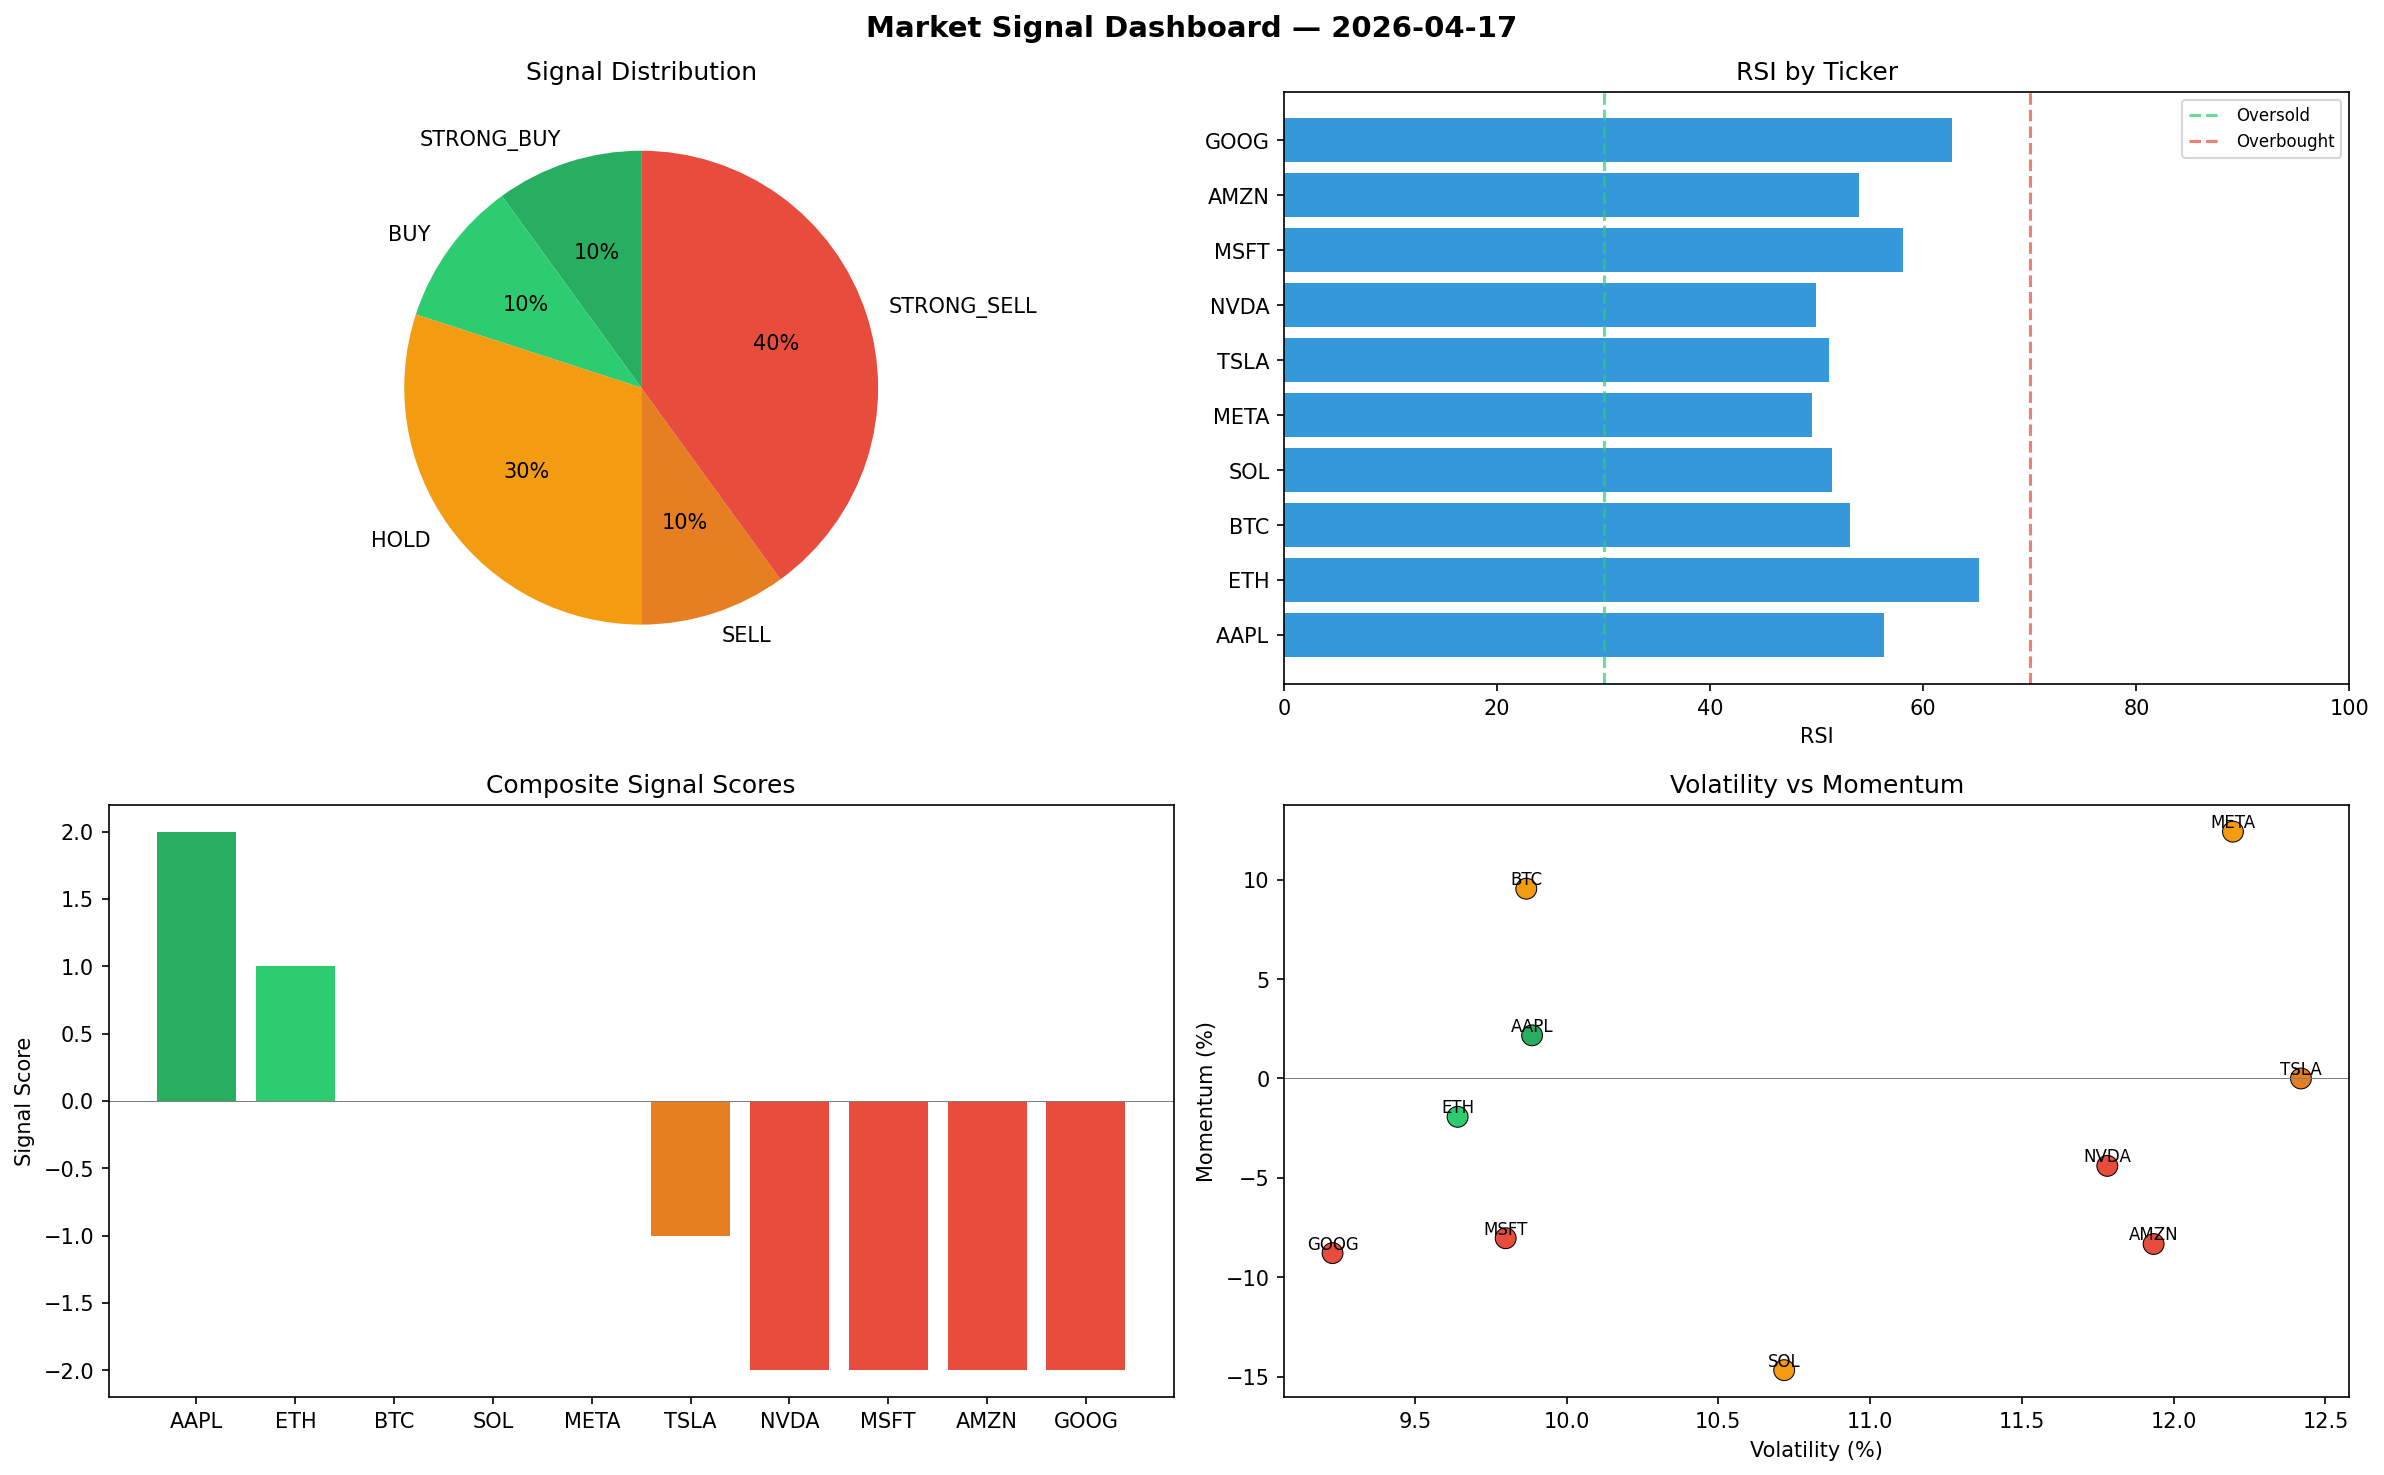
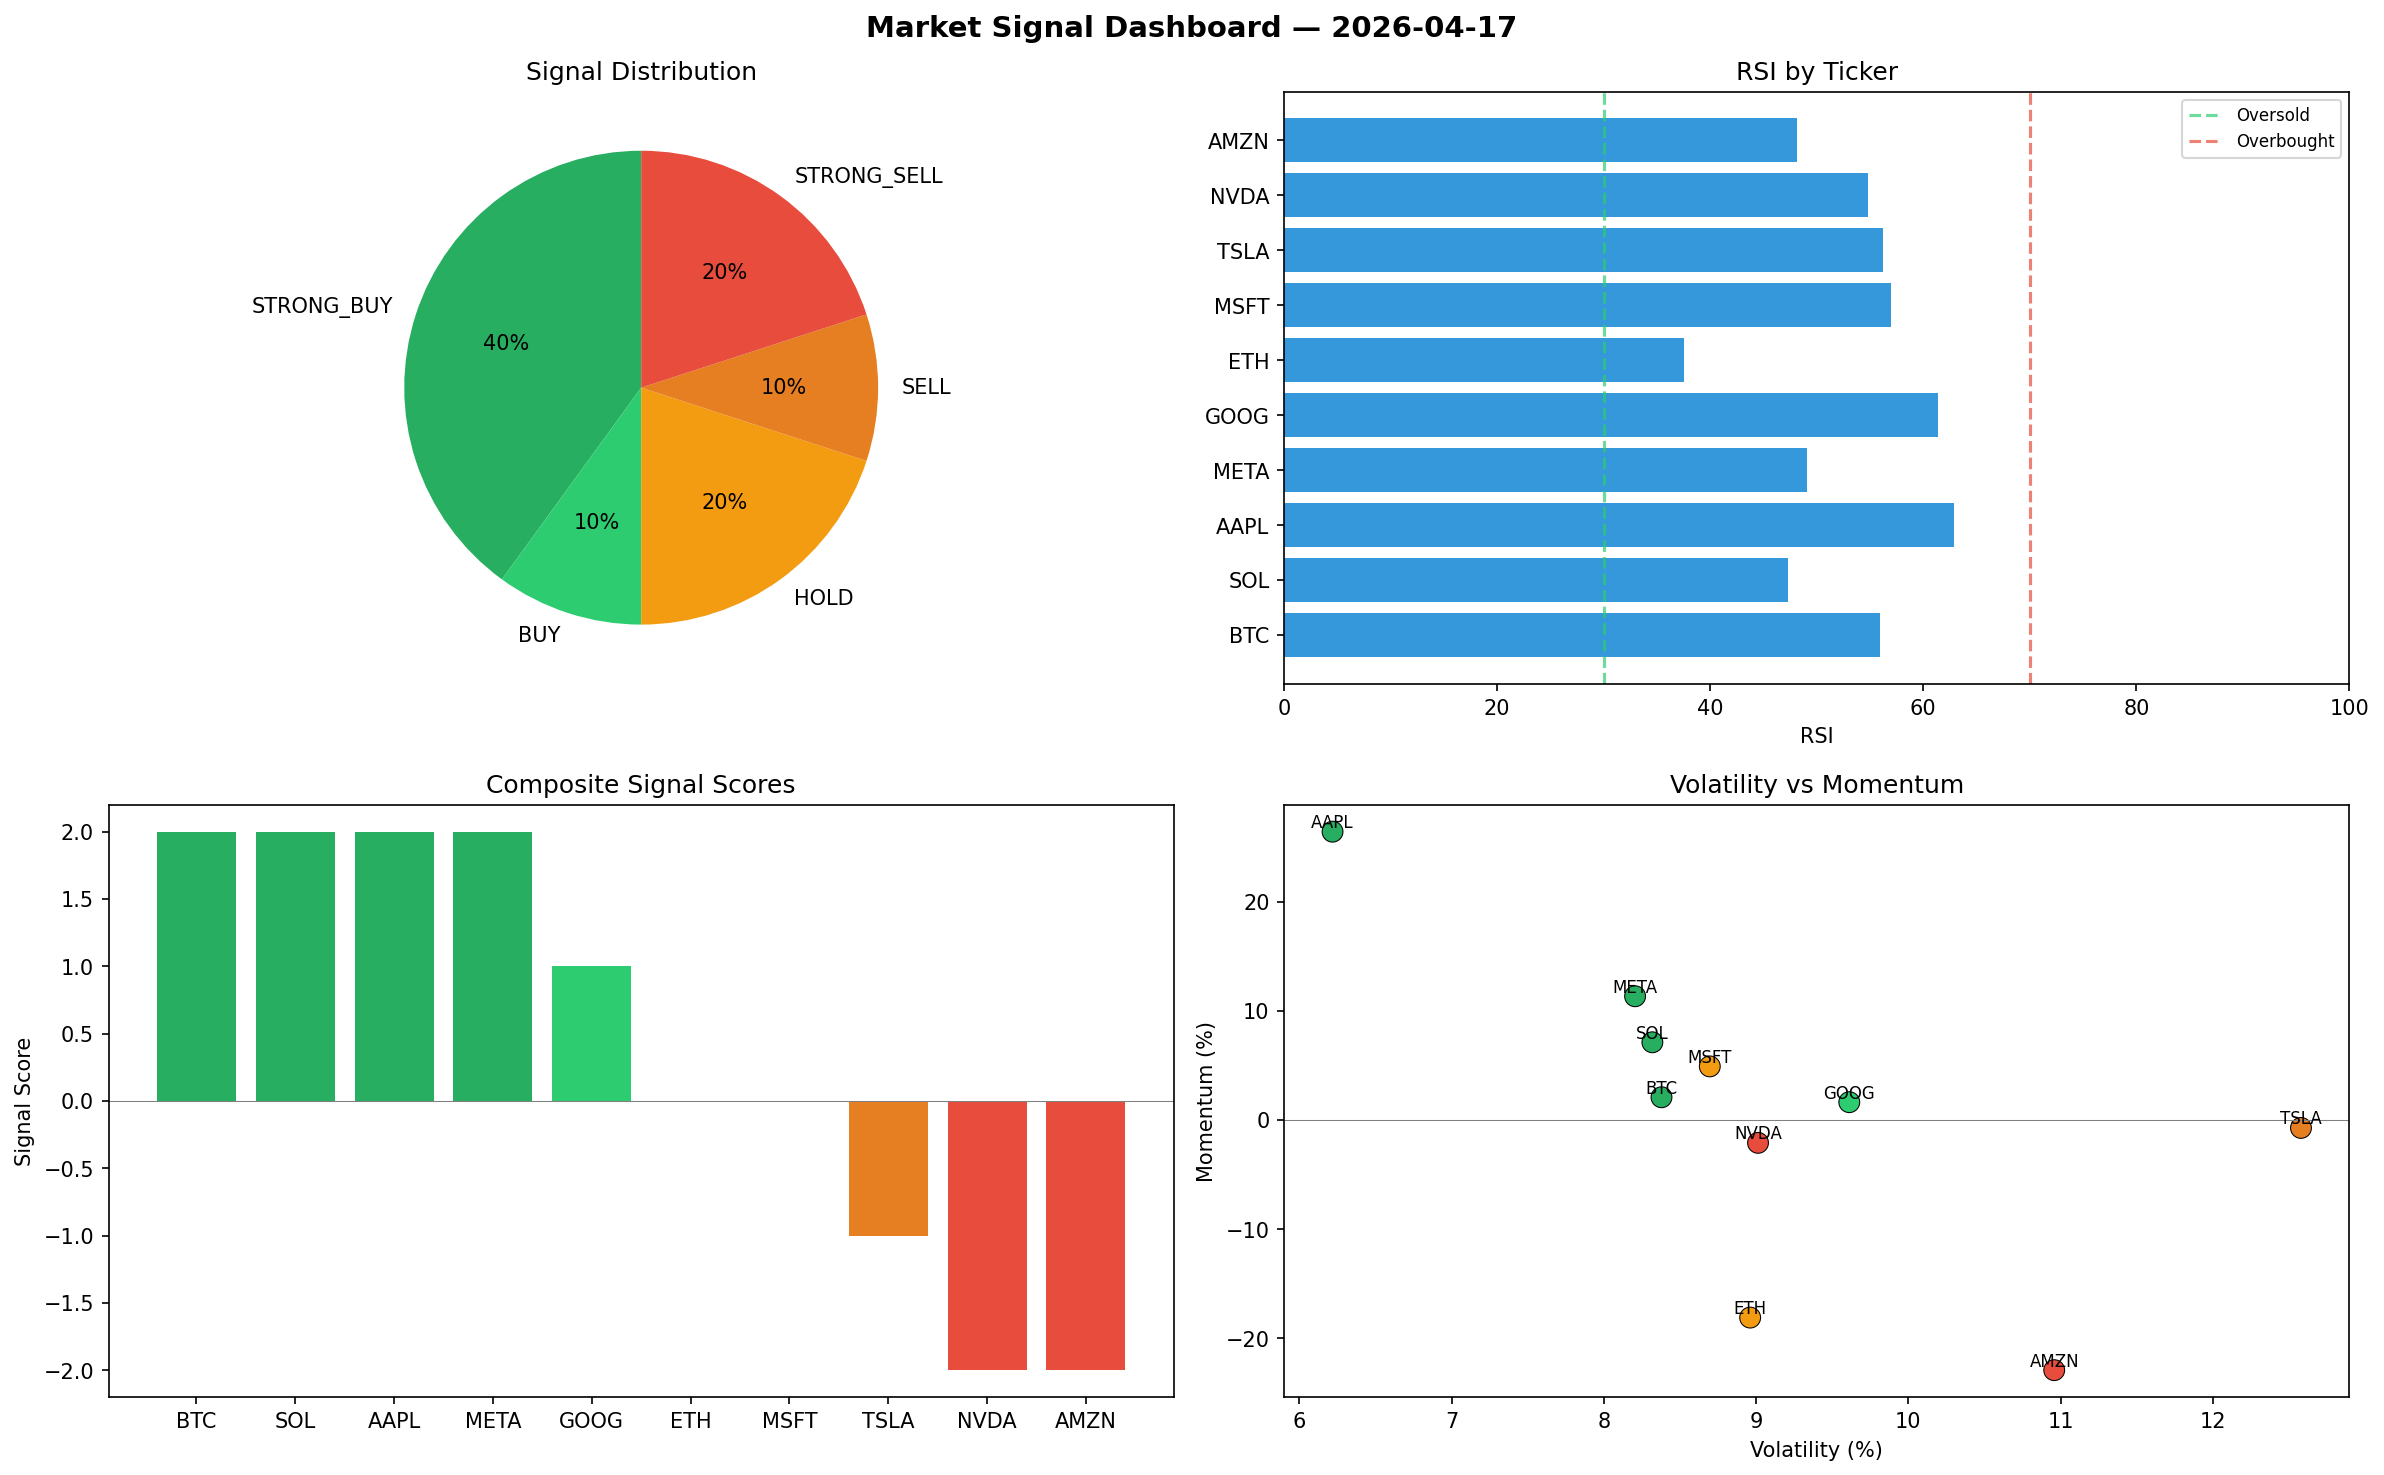
automated-bots: market signals 2026-04-17T21:07

diff --git a/logs/2026-04-17.md b/logs/2026-04-17.md
@@ -1,6 +1,6 @@
 # Market Signal Report — 2026-04-17
 
-**Run ID:** `4b8f39da7f` | **Buy:** 2 | **Sell:** 5 | **Hold:** 3
+**Run ID:** `35aff0b04b` | **Buy:** 5 | **Sell:** 3 | **Hold:** 2
 
 ![Dashboard](2026-04-17_dashboard.png)
 
@@ -8,28 +8,28 @@
 
 | Ticker | Price | Signal | Score | RSI | Momentum | Confidence |
 |--------|-------|--------|-------|-----|----------|------------|
-| AAPL | $826.27 | **STRONG_BUY** | 2 | 56.29 | 0.0217 | 0.5 |
-| ETH | $3763.6 | **BUY** | 1 | 65.2 | -0.0193 | 0.25 |
-| BTC | $1525.76 | **HOLD** | 0 | 53.16 | 0.0955 | 0.0 |
-| SOL | $895.11 | **HOLD** | 0 | 51.42 | -0.1468 | 0.0 |
-| META | $4576.48 | **HOLD** | 0 | 49.52 | 0.1242 | 0.0 |
-| TSLA | $3783.25 | **SELL** | -1 | 51.19 | -0.0 | 0.25 |
-| NVDA | $2291.2 | **STRONG_SELL** | -2 | 49.92 | -0.044 | 0.5 |
-| MSFT | $779.53 | **STRONG_SELL** | -2 | 58.05 | -0.0804 | 0.5 |
-| AMZN | $1031.35 | **STRONG_SELL** | -2 | 53.92 | -0.0833 | 0.5 |
-| GOOG | $3770.24 | **STRONG_SELL** | -2 | 62.73 | -0.0879 | 0.5 |
+| BTC | $646.97 | **STRONG_BUY** | 2 | 55.94 | 0.0208 | 0.5 |
+| SOL | $1798.57 | **STRONG_BUY** | 2 | 47.28 | 0.0712 | 0.5 |
+| AAPL | $3824.76 | **STRONG_BUY** | 2 | 62.92 | 0.2643 | 0.5 |
+| META | $4314.14 | **STRONG_BUY** | 2 | 49.08 | 0.1134 | 0.5 |
+| GOOG | $3619.43 | **BUY** | 1 | 61.35 | 0.0163 | 0.25 |
+| ETH | $1043.61 | **HOLD** | 0 | 37.54 | -0.1812 | 0.0 |
+| MSFT | $2249.18 | **HOLD** | 0 | 57.01 | 0.0491 | 0.0 |
+| TSLA | $2500.83 | **SELL** | -1 | 56.18 | -0.0073 | 0.25 |
+| NVDA | $496.25 | **STRONG_SELL** | -2 | 54.83 | -0.021 | 0.5 |
+| AMZN | $2989.49 | **STRONG_SELL** | -2 | 48.17 | -0.2294 | 0.5 |
 
 ## Delta vs Yesterday
 
 | Ticker | Today | Yesterday | Price Change | Signal Changed |
 |--------|-------|-----------|-------------|----------------|
-| AAPL | STRONG_BUY | STRONG_BUY | 📉 -78.96% | — |
-| ETH | BUY | HOLD | 📈 55.87% | ⚠ YES |
-| BTC | HOLD | STRONG_SELL | 📉 -62.09% | ⚠ YES |
-| SOL | HOLD | STRONG_SELL | 📈 228.35% | ⚠ YES |
-| META | HOLD | SELL | 📈 617.14% | ⚠ YES |
-| TSLA | SELL | STRONG_BUY | 📈 6.96% | ⚠ YES |
-| NVDA | STRONG_SELL | HOLD | 📉 -33.73% | ⚠ YES |
-| MSFT | STRONG_SELL | SELL | 📈 75.32% | ⚠ YES |
-| AMZN | STRONG_SELL | STRONG_BUY | 📉 -49.17% | ⚠ YES |
-| GOOG | STRONG_SELL | HOLD | 📈 72.31% | ⚠ YES |
+| BTC | STRONG_BUY | STRONG_SELL | 📉 -83.93% | ⚠ YES |
+| SOL | STRONG_BUY | STRONG_SELL | 📈 559.76% | ⚠ YES |
+| AAPL | STRONG_BUY | STRONG_BUY | 📉 -2.6% | — |
+| META | STRONG_BUY | SELL | 📈 576.03% | ⚠ YES |
+| GOOG | BUY | HOLD | 📈 65.42% | ⚠ YES |
+| ETH | HOLD | HOLD | 📉 -56.78% | — |
+| MSFT | HOLD | SELL | 📈 405.87% | ⚠ YES |
+| TSLA | SELL | STRONG_BUY | 📉 -29.29% | ⚠ YES |
+| NVDA | STRONG_SELL | HOLD | 📉 -85.65% | ⚠ YES |
+| AMZN | STRONG_SELL | STRONG_BUY | 📈 47.33% | ⚠ YES |
